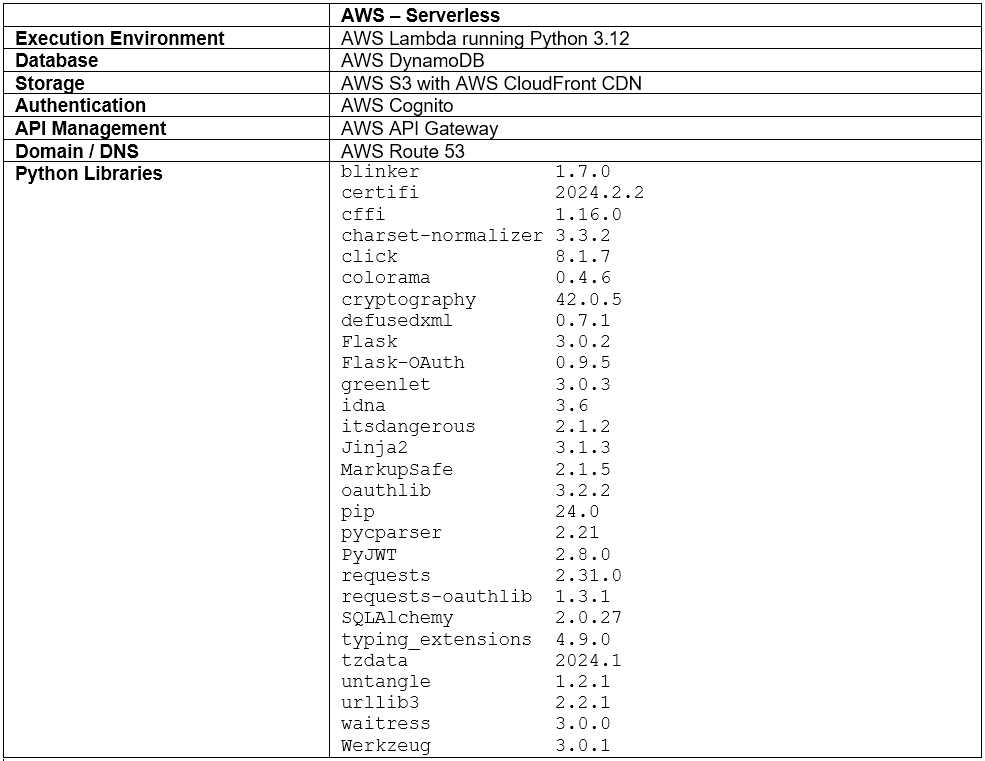
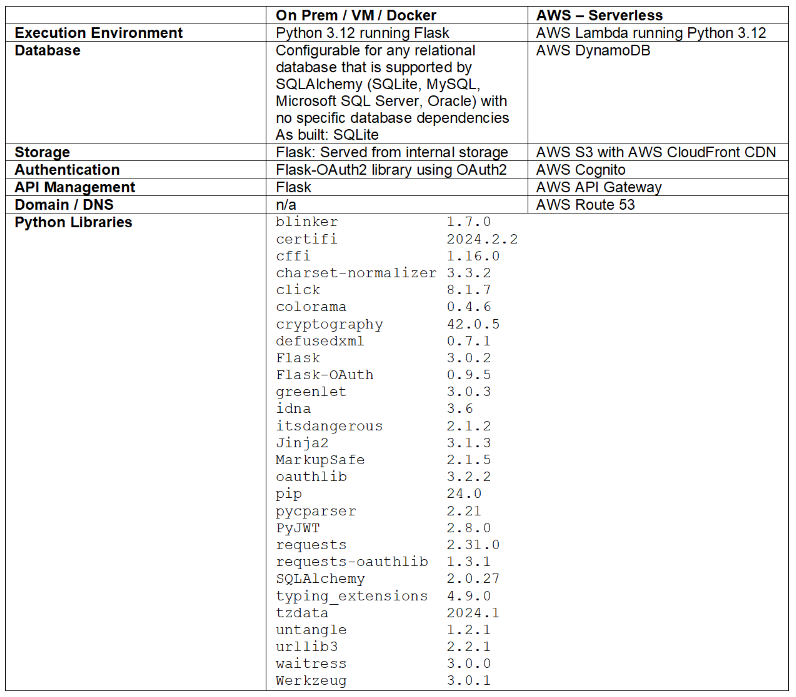
Updates to readme

Changed region(s): [[0.0, 0.0, 1.0, 1.0]]

diff --git a/README.md b/README.md
@@ -60,8 +60,6 @@
 <!-- ABOUT THE PROJECT -->
 ## Product Overview
 
-<!-- [![Medicaid][medicaid-diagram](https://example.com) -->
-
 
 ### Focus of the Product
 
@@ -91,7 +89,6 @@ The intended audience for this middleware product includes, but is not limited t
 <p align="right">(<a href="#readme-top">back to top</a>)</p>
 
 
-
 <!-- GETTING STARTED -->
 ## Product Design
 
@@ -112,11 +109,25 @@ The [ViaAPI](https://developer.ridewithvia.com/) is used to book and manage ride
 3. Provide secure URL for webhooks to receive status change updates and set up a listener port for the URL.
 4. Get access to the VOC for testing API calls and status updates.
 
+#### EHR
+
+For the MOD-EHR middleware, an administrator is required to generate their own public/private key and share the public key in its application management portal.
+
+1. Epic requires users to load a public key in its application manager portal.
+2. Veradigm requires a JWKS to access the public key and the appropriate URL submitted to its application portal.
+3. For the MOD-EHR middleware, a user needs to sign a JSON Web Token (JWT) with the user's private key.
+
 ### Data Management & Storage
 
-The diagram below details how data is managed and stored in AWS.
+The diagrams below show the data management and storage flows in non-AWS (Flask) and AWS based environments.
+
+![Flask-EHR](/images/Flask-EHR.png)
+
+*Data management and storage flows using a non-AWS (Flask) environment*
 
 ![AWS-EHR](/images/AWS-EHR.png)
+
+*Data management and storage flows in the AWS environment*
 <!-- ### Data Storage -->
 
 <!-- ### User Interface -->
@@ -147,13 +158,22 @@ The diagram below details how data is managed and stored in AWS.
 <!-- USAGE EXAMPLES -->
 ## Tech Stack
 
+Non-AWS Deployment:
+* Execution Environment: Python 3.12 running Flask
+* Database: Configurable for any relational database that is supported by SQLAlchemy (SQLite, MySQL, Microsoft SQL Server, Oracle) with no specific database dependencies. As built: SQLite
+* Storage: Flask: Served from internal storage
+* Authentication: Flask-Oauth2 library using OAuth2
+* API Management: Flask
+* Domain/DNS: N/A
+
+AWS Deployment:
+
 * Execution Environment: AWS Lambda running Python 3.12
 * Database: AWS DynamoDB
 * Storage: AWS S3 with AWS CloudFront CDN
 * Authentication: AWS Cognito
 * API Management: AWS API Gateway
-* Domain/DNS AWS Route 53
-
+* Domain/DNS: AWS Route 53
 
 
 <p align="right">(<a href="#readme-top">back to top</a>)</p>
@@ -165,10 +185,6 @@ The diagram below details how data is managed and stored in AWS.
 
 This specific deployment of the EHR Middleware product utilizes ViaAPI for the MOD Platform TMS endpoints and a custom webpage to mimick the EHR endpoint. The following deployment steps have been generalized to be applicable for use with any TMS and/or EHR provider.
 
-### Hardware
-
-_Insert required hardware_
-
 ### Cloud Infrastructure
 
 The following tables describes the cloud-based environment and libraries required to deploy the EHR middleware product.
@@ -177,22 +193,42 @@ The following tables describes the cloud-based environment and libraries require
 
 ### Software Environment
 
-_Update steps below for specific deployment of each codebase_
+#### Non-AWS installation
 
-1. Get a free API Key at [https://example.com](https://example.com)
-2. Clone the repo
+1. Generate public/private keys as described under [Data Access](href="#data-access").
+2. Install required libraries:
    ```sh
-   git clone https://github.com/your_username_/Project-Name.git
+   pip install Flask
+   pip install Flask-OAuth
+   pip install SQLAlchemy
+   pip install Waitress
    ```
-3. Install NPM packages
-   ```sh
-   npm install
-   ```
-4. Enter your API in `config.js`
-   ```js
-   const API_KEY = 'ENTER YOUR API';
-   ```
+   * All of the sub dependencies for these libraries are also required. ‘Requirements_flask.txt’ provides an easy way for an installer to quickly install all required python libraries.
+3. The entry point for the Flask application is in the root directory in the filename flask_app.py. Flask should not be directly invoked; rather a production WSGI Web Server should be utilized. Waitress is listed as an option for a production WSGI Web Server. To run the program in Waitress, issue the following command at the root of the codebase:
+    ```sh
+    waitress-serve flask_app:app
+    ```
+4. Ensure cybersecurity measures are taken:
+* Proper storage of private keys to authenticate against various EHR using FHIR.
+* Protecting the python application execution using a reverse proxy such as Apache, Nginx, or IIS.
+* Protecting files against unauthorized writes from webserver users.
+* Not executing the web server as root or with any elevated permissions.
+5. Note: Python expects to read/write into one file: mod_db_v1.db. The middleware uses SQLite, which is performant for the purpose of this project and with a sizable participant size. Modifications could be made to the code to use an existing database. SQLAlchemy supports common databases such as:
+* Microsoft SQL Server
+* Oracle
+* Postgres
 
+#### AWS Installation
+
+1. Using the included AWS Cloud Development Kit (CDK) framework, please refer to [AWS CDK](https://aws.amazon.com/cdk/) for the latest instructions. These middleware products were built using the AWS CDK v2. The following resources are required to proceed with installation:
+* AWS Account
+* AWS CDK CLI and authentication setup on the machine to execute to AWS CDK commands.
+2. Refer to AWS documentation for the latest information on how to setup your computer to interact with your AWS account.
+3. To build the AWS environment, navigate to your code directory and execute:
+    ```sh
+    cdk synth
+    cdk deploy app
+    ```
 <p align="right">(<a href="#readme-top">back to top</a>)</p>
 
 
@@ -221,9 +257,9 @@ USDOT ITS4US: [https://www.its.dot.gov/its4us/index.htm](https://www.its.dot.gov
 
 
 <!-- MARKDOWN LINKS & IMAGES -->
-<!-- https://www.markdownguide.org/basic-syntax/#reference-style-links -->
 [EHR]: images/EHR.png
 [AWS-EHR]: images/AWS-EHR.PNG
+[Flask-EHR]: images/Flask-EHR.PNG
 [EHR-login]: images/AWS_login.PNG
 [cloud-services-diagram]: images/cloud-services.png
 [Add Appointment]: images/add-appointment.PNG
